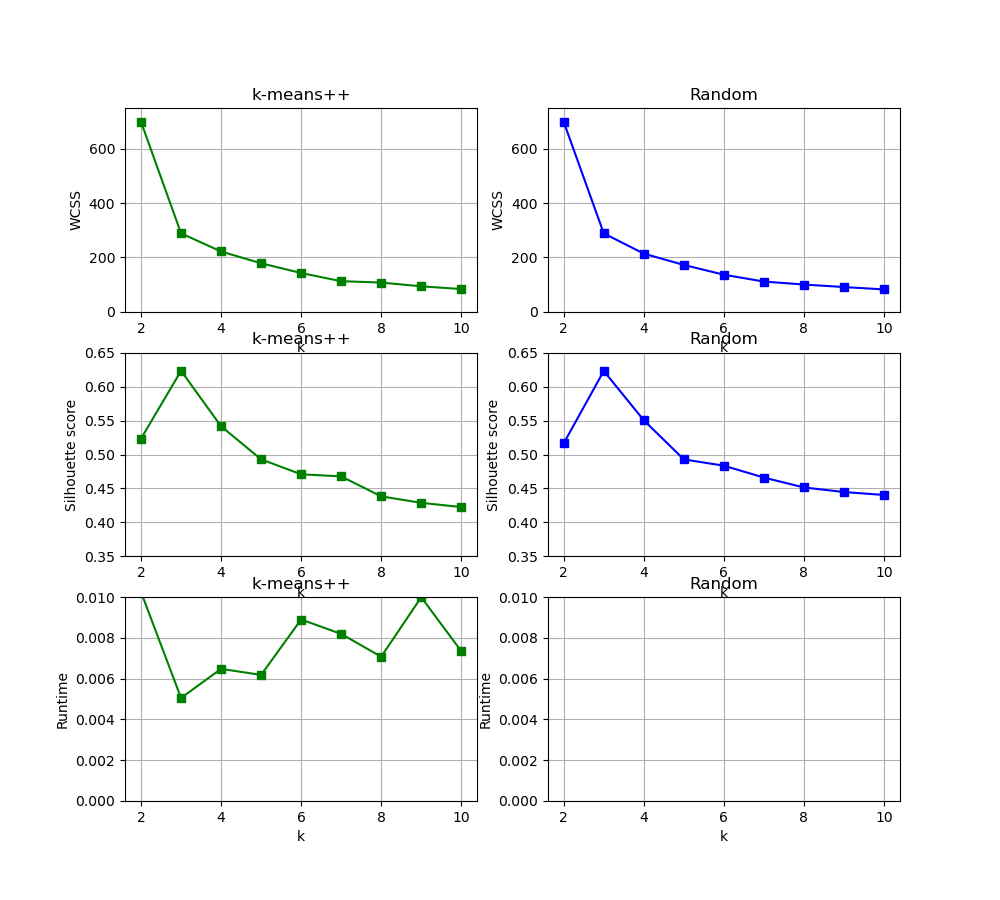
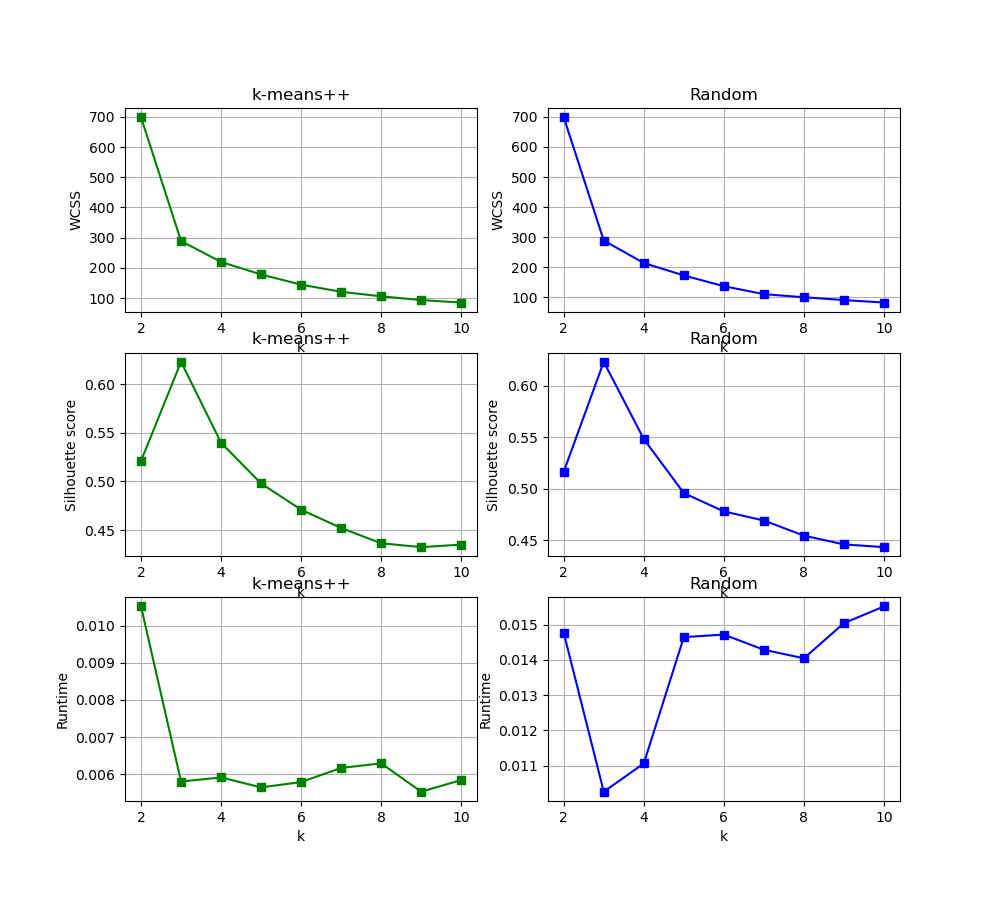
fix hw01

diff --git a/src/kmean_pca.py b/src/kmean_pca.py
@@ -10,6 +10,14 @@ from sklearn.metrics import silhouette_score
 import time
 
 
+def plotit(y_data, line, ylabel, name):
+    plt.plot(k_values, y_data, line)
+    plt.xlabel("k")
+    plt.ylabel(ylabel)
+    plt.title(name)
+    plt.grid(True)
+
+
 if __name__ == "__main__":
     # Part 1 ===========================================================
     # select wine data from sklearn.
@@ -75,60 +83,22 @@ if __name__ == "__main__":
         time_plus_total = time_plus_total + np.array(time_plus)
         time_rnd_total = time_rnd_total + np.array(time_rnd)
 
-    wcss_plus_avg = wcss_plus_total / 9
-    wcss_rnd_avg = wcss_rnd_total / 9
-    score_plus_avg = score_plus_total / 9
-    score_rnd_avg = score_rnd_total / 9
-    time_plus_avg = time_plus_total / 9
-    time_rnd_avg = time_rnd_total / 9
+    calc_name = ["WCSS", "Silhouette score", "Runtime"]
+    calc_data = [
+        [wcss_plus_total / 9, wcss_rnd_total / 9],
+        [score_plus_total / 9, score_rnd_total / 9],
+        [time_plus_total / 9, time_rnd_total / 9],
+    ]
+    init_methods = ["k-means++", "Random"]
+    line_col = ["gs-", "bs-"]
 
-    plt.subplot(3, 2, 1)
-    plt.plot(k_values, wcss_plus_avg, "gs-")
-    plt.xlabel("k")
-    plt.ylabel("WCSS")
-    plt.title("k-means++")
-    plt.grid(True)
-    plt.ylim(0, 750)
+    index = 0
+    for x, x_name in enumerate(calc_name):
+        for y, y_name in enumerate(init_methods):
+            index += 1
+            plt.subplot(3, 2, index)
+            plotit(y_data=calc_data[x][y], line=line_col[y], ylabel=x_name, name=y_name)
 
-    plt.subplot(3, 2, 2)
-    plt.plot(k_values, wcss_rnd_avg, "bs-")
-    plt.xlabel("k")
-    plt.ylabel("WCSS")
-    plt.title("Random")
-    plt.grid(True)
-    plt.ylim(0, 750)
-
-    plt.subplot(3, 2, 3)
-    plt.plot(k_values, score_plus_avg, "gs-")
-    plt.xlabel("k")
-    plt.ylabel("Silhouette score")
-    plt.title("k-means++")
-    plt.grid(True)
-    plt.ylim(0.35, 0.65)
-
-    plt.subplot(3, 2, 4)
-    plt.plot(k_values, score_rnd_avg, "bs-")
-    plt.xlabel("k")
-    plt.ylabel("Silhouette score")
-    plt.title("Random")
-    plt.grid(True)
-    plt.ylim(0.35, 0.65)
-
-    plt.subplot(3, 2, 5)
-    plt.plot(k_values, time_plus_avg, "gs-")
-    plt.xlabel("k")
-    plt.ylabel("Runtime")
-    plt.title("k-means++")
-    plt.grid(True)
-    plt.ylim(0, 0.01)
-
-    plt.subplot(3, 2, 6)
-    plt.plot(k_values, time_rnd_avg, "bs-")
-    plt.xlabel("k")
-    plt.ylabel("Runtime")
-    plt.title("Random")
-    plt.grid(True)
-    plt.ylim(0, 0.01)
     plt.gcf().set_size_inches(10, 9)
     plt.tight_layout
     plt.savefig("fig/kmean_init.png")
@@ -179,37 +149,21 @@ if __name__ == "__main__":
     time_lloyd_avg = time_lloyd_total / 9
     time_elkan_avg = time_elkan_total / 9
 
-    plt.subplot(2, 2, 1)
-    plt.plot(k_values, wcss_lloyd_avg, "gs-")
-    plt.xlabel("k")
-    plt.ylabel("WCSS")
-    plt.title("Lloyd")
-    plt.grid(True)
-    plt.ylim(0, 800)
+    calc_name = ["WCSS", "Runtime"]
+    calc_data = [
+        [wcss_lloyd_total / 9, wcss_elkan_total / 9],
+        [time_lloyd_total / 9, time_elkan_total / 9],
+    ]
+    opt_methods = ["Lloyd", "Elkan"]
+    line_col = ["gs-", "bs-"]
 
-    plt.subplot(2, 2, 2)
-    plt.plot(k_values, wcss_elkan_avg, "bs-")
-    plt.xlabel("k")
-    plt.ylabel("WCSS")
-    plt.title("Elkan")
-    plt.grid(True)
-    plt.ylim(0, 800)
+    index = 0
+    for x, x_name in enumerate(calc_name):
+        for y, y_name in enumerate(opt_methods):
+            index += 1
+            plt.subplot(2, 2, index)
+            plotit(y_data=calc_data[x][y], line=line_col[y], ylabel=x_name, name=y_name)
 
-    plt.subplot(2, 2, 3)
-    plt.plot(k_values, time_lloyd_avg, "gs-")
-    plt.xlabel("k")
-    plt.ylabel("Runtime")
-    plt.title("Lloyd")
-    plt.grid(True)
-    plt.ylim(0, 0.006)
-
-    plt.subplot(2, 2, 4)
-    plt.plot(k_values, time_elkan_avg, "bs-")
-    plt.xlabel("k")
-    plt.ylabel("Runtime")
-    plt.title("Elkan")
-    plt.grid(True)
-    plt.ylim(0, 0.006)
     plt.gcf().set_size_inches(10, 6)
     plt.tight_layout
     plt.savefig("fig/kmean_opt.png")

diff --git a/src/agglo_scipy_blobs.py b/src/agglo_scipy_blobs.py
@@ -1,5 +1,5 @@
 import matplotlib.pyplot as plt
-from sklearn.datasets import make_blobs
+from sklearn.datasets import make_blobs, make_moons
 from sklearn.cluster import AgglomerativeClustering
 from sklearn.preprocessing import StandardScaler
 from sklearn.metrics import silhouette_score, calinski_harabasz_score
@@ -11,7 +11,6 @@ def plot_agglo(X_scaled, link_choice=str):
     score_chs = []
     for i in range(2, 11):
         Z = linkage(X_scaled, link_choice)
-        max_distance = 1.0
         y_pred = fcluster(Z=Z, t=i, criterion="maxclust")
         # score_s.append(silhouette_score(X_scaled, agglo_model.labels_))
         # score_chs.append(calinski_harabasz_score(X_scaled, agglo_model.labels_))
@@ -35,7 +34,7 @@ def plot_score(k, score, color):
 if __name__ == "__main__":
     # Part 1 ==================================================================
     # generate sample data.
-    X, y = make_blobs(n_samples=1000, centers=4, random_state=0, cluster_std=0.5)
+    X, y = make_moons(n_samples=1000, random_state=0, noise=0.2)
 
     # scale the data.
     scaler = StandardScaler()
@@ -49,7 +48,7 @@ if __name__ == "__main__":
     plt.show()
 
     # Part 2 ==================================================================
-    link_type = ["single", "complete", "ward", "average"]
+    link_type = ["single", "complete", "centroid", "ward", "average"]
     k_values = list(range(2, 11))
     list_s = []
     list_chs = []

diff --git a/src/sklearn_linkage_moons.py b/src/sklearn_linkage_moons.py
@@ -1,38 +1,8 @@
 import matplotlib.pyplot as plt
 from sklearn.datasets import make_moons
-from sklearn.cluster import AgglomerativeClustering
 from sklearn.preprocessing import StandardScaler
-from sklearn.metrics import silhouette_score, calinski_harabasz_score
 from scipy.cluster.hierarchy import dendrogram, linkage
-
-
-def plot_agglo(X_scaled, link_choice=str):
-    score_s = []
-    score_chs = []
-    for i in range(2, 11):
-        agglo = AgglomerativeClustering(
-            n_clusters=i,
-            linkage=link_choice,
-        )
-        y_pred = agglo.fit_predict(X_scaled)
-        agglo_model = agglo.fit(X_scaled)
-        score_s.append(silhouette_score(X_scaled, agglo_model.labels_))
-        score_chs.append(calinski_harabasz_score(X_scaled, agglo_model.labels_))
-
-        plt.subplot(5, 2, i - 1)
-        plt.scatter(X_scaled[:, 0], X_scaled[:, 1], c=y_pred)
-        plt.title(f"Linkage = {link_choice} & Cluster = {i}")
-    plt.gcf().set_size_inches(10, 15)
-    plt.tight_layout
-    return score_s, score_chs
-
-
-def plot_score(k, score, color):
-    plt.plot(k, score, color)
-    plt.xlabel("k")
-    plt.ylabel("score")
-    plt.grid(True)
-    plt.tight_layout
+from sklearn_linkage_blobs import plot_agglo, plot_score
 
 
 if __name__ == "__main__":
